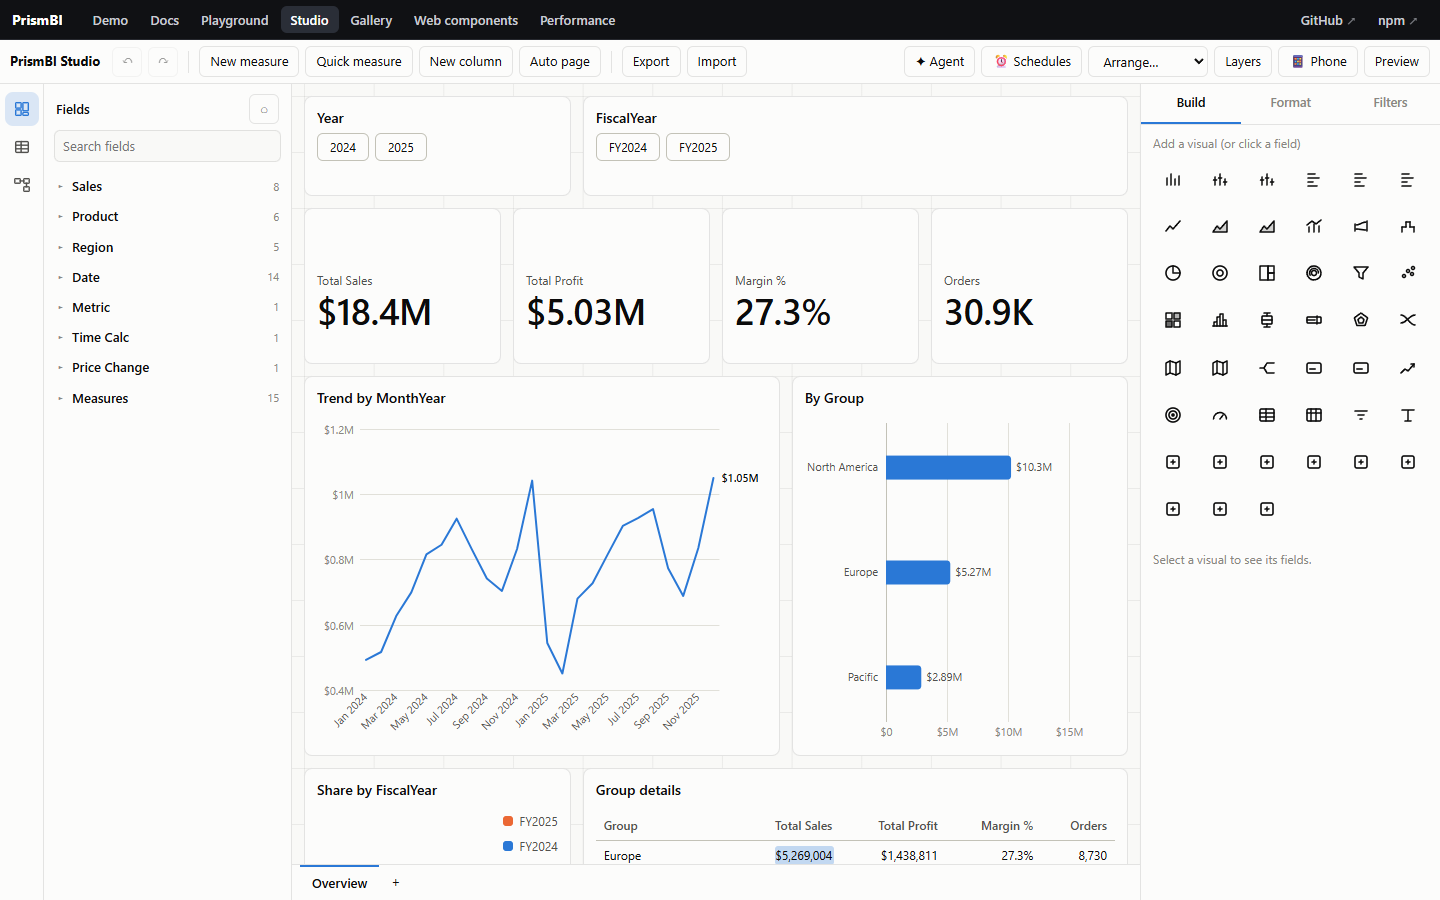
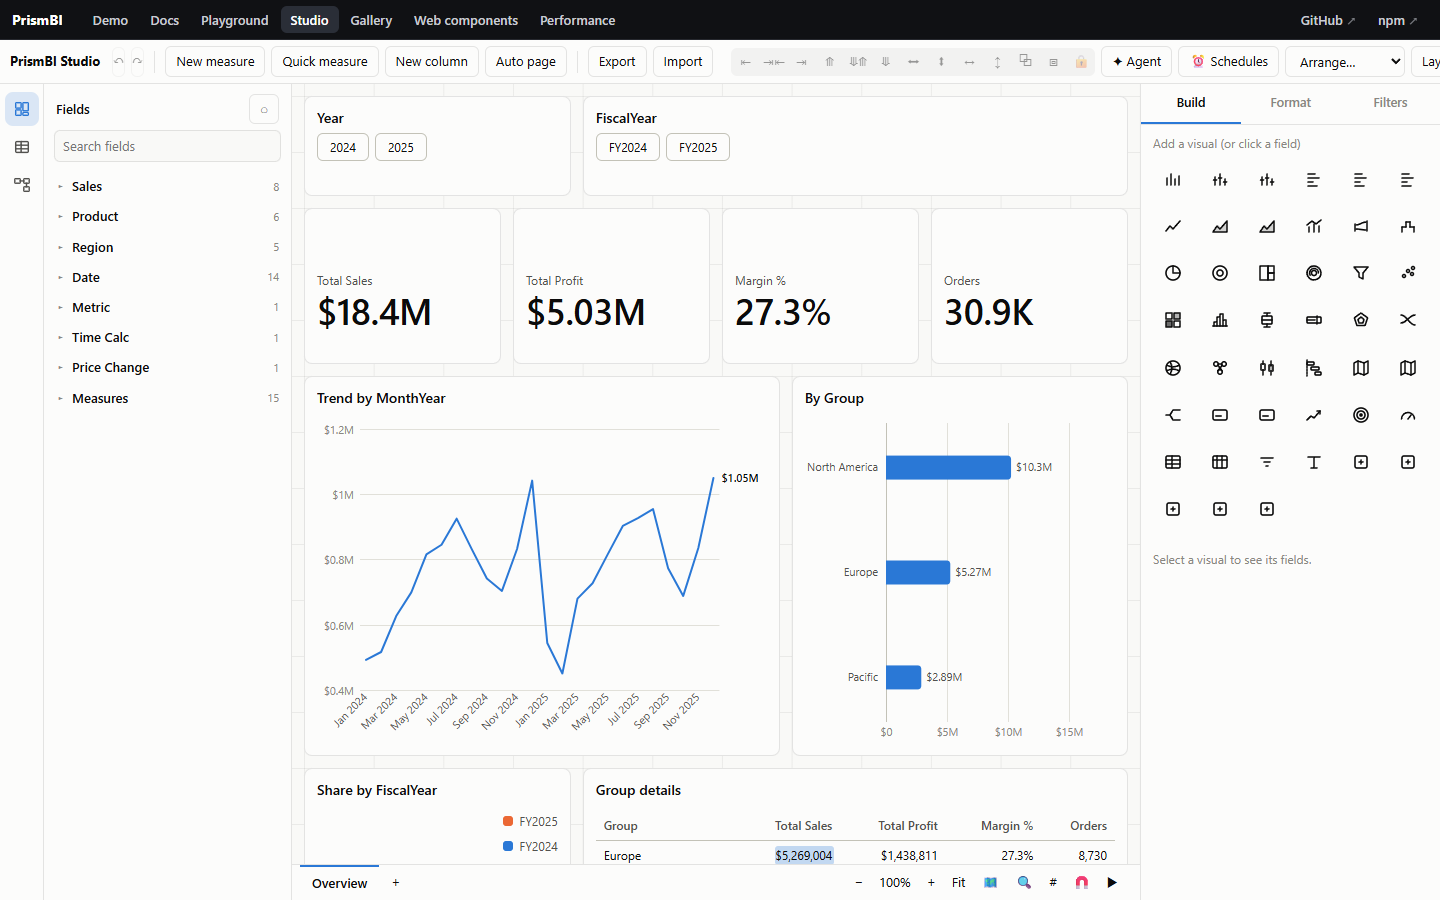
docs: update guide documentation and regenerate documentation screenshots

diff --git a/README.md b/README.md
@@ -56,7 +56,7 @@ Clicking a column filters the card. Clicking a slicer tile filters both, and dou
 | **40 visuals** | Column and bar (clustered, stacked, 100%), line, area, stacked area, combo (dual-axis / secondary Y-scale), ribbon, waterfall, pie, donut, treemap, sunburst, funnel, scatter and bubble, histogram, box plot, bullet, radar, sankey, chord diagram, network graph (force-directed with node dragging), gantt chart, candlestick (OHLC with volume), heatmap, bubble and filled maps (with custom GeoJSON territories), decomposition tree, card, multi-row card, KPI, gauge, goals scorecard, table, matrix (stepped layout and in-cell sparklines), slicer, text, sweep-line collision avoidance for data labels, and small multiples across cartesian, scatter, and bullet charts |
 | **Light and fast** | Zero dependencies. A columnar engine with typed-array views, 64-bit group key encoding, multi-worker parallel execution pool, vectorised aggregations, a single-pass grouped query path, hash indexes and caches. Queries over 1M rows, including YTD per day, take 12–191 ms cold. LTTB-thinned lines, canvas scatter, virtualized tables, and an optional Web Worker engine |
 | **Live data** | `@prismbi/prismbi/connectors`: zero-copy streaming CSV to packed columnar buffers, URL streaming, Google Sheets, JSON, paginated REST, GraphQL, Apache Arrow (Parquet via DuckDB-Wasm), SQL adapters, WebSocket and EventSource streaming into sliding windows, scheduled refresh |
-| **Analytics** | Continuous time and number axes, log scales, automated time-series anomaly detection (detrended IQR and Z-score with visual beacons and explanation badges), reference lines (constant, average, median, min, max, percentile), trend lines, rule- and gradient-based colours, report-page tooltips, real totals |
+| **Analytics** | Continuous time and number axes, log scales, automated time-series anomaly detection (detrended IQR and Z-score with visual beacons and explanation badges), reference lines (constant, average, median, min, max, percentile), reference bands & target ranges, trend lines, rule- and gradient-based colours, data label contrast and threshold rules, report-page tooltips, real totals |
 | **Customizable** | Theme tokens and CSS variables, Power BI theme JSON import, per-visual format panes, theme `visualStyles`, custom tooltips, custom visuals, PNG/SVG/CSV/PDF (crisp resolution-independent vector paths or raster)/PowerPoint (.pptx)/Word (.docx) export, standalone single-file HTML dashboards, copy visual image to clipboard, edit-interactions mode |
 | **Accessible** | Keyboard-reachable marks, ARIA roles, legends whenever there are two or more series, show-as-table on every chart, reduced motion, light and dark palettes validated for colour-vision deficiency |
 

diff --git a/docs/guide/interactions.md b/docs/guide/interactions.md
@@ -49,11 +49,55 @@ report.setSlicerSelection('region', null); // clear
 
 ### Sync slicers across pages
 
-Slicers with the same `syncGroup` share one selection on every page, whatever their style:
+Slicers can synchronize across pages by sharing a `syncGroup`, or by specifying target `syncPages`:
+
+```ts
+// Sync slicer with other pages even without duplicate slicer visuals:
+{
+  type: 'slicer',
+  fields: { field: 'Date[Year]' },
+  format: { slicer: { style: 'tiles', syncPages: ['Details', 'Analysis'] } }
+}
+```
+
+Or programmatically via `Report`:
+```ts
+report.syncSlicers('slicer-id', ['page-2', 'page-3']); // target specific pages or 'all'
+report.getSyncSlicers(); // returns all sync slicers and active selections
+```
+
+Slicers with the same `syncGroup` share one selection across every page where they appear:
 
 ```ts
 { type: 'slicer', fields: { field: 'Date[Year]' }, format: { slicer: { style: 'tiles', syncGroup: 'year' } } }   // page 1
 { type: 'slicer', fields: { field: 'Date[Year]' }, format: { slicer: { style: 'dropdown', syncGroup: 'year' } } } // page 2
+```
+
+## Canvas wallpaper, page background & watermark
+
+Pages support rich background styling and watermarks via `PageDefinition.background` or `report.setPageBackground()`:
+
+```ts
+report.setPageBackground({
+  color: '#f8fafc',
+  image: 'https://example.com/assets/dashboard-bg.png',
+  fit: 'cover', // 'cover' | 'contain' | 'fit' | 'center'
+  opacity: 0.85,
+  watermark: 'CONFIDENTIAL', // or { text: 'DRAFT', color: '#dc2626', opacity: 0.1, angle: -35 }
+});
+
+// Inspect active background
+report.getPageBackground();
+```
+
+## Page management: deletion & bulk reordering
+
+```ts
+// Reorder page tabs in any order:
+report.reorderPages(['summary', 'details', 'kpis']);
+
+// Delete a page by id or name (preserves at least one page):
+report.removePage('obsolete-page'); // returns true if removed
 ```
 
 ## Cross-filtering and cross-highlighting

diff --git a/docs/guide/studio.md b/docs/guide/studio.md
@@ -31,7 +31,7 @@ To show the finished report to viewers, pass `doc.report` to `<PrismReport defin
 
 | Area | Features |
 |---|---|
-| **Canvas** | Select visuals, drag to move, resize from 8 handles. Magnetic smart alignment snap lines guide placement against neighboring visual edges. Multi-visual lasso marquee drag selection. Everything snaps to the page grid, which is visible while editing. Click empty space to deselect |
+| **Canvas** | Select visuals, drag to move, resize from 8 handles. Magnetic smart alignment snap lines guide placement against neighboring visual edges and midpoints. Multi-visual lasso marquee drag selection. Top toolbar quick alignment (left, center, right, top, middle, bottom), spacing distribution (horizontally, vertically), and visual size matching (width, height, both). Visual locking (`Ctrl+L`) and grouping (`Ctrl+G`). Drag-and-drop external CSV and JSON data files directly onto the canvas. Everything snaps to the configurable page grid (`Ctrl+'`). Click empty space to deselect |
 | **Keyboard** | Arrows nudge (Shift+arrows resize) · Delete removes · Ctrl+D duplicates · Ctrl+C / Ctrl+V copy and paste · Ctrl+] / Ctrl+[ front and back · Ctrl+Z / Ctrl+Y undo and redo · Ctrl+S saves · Esc deselects |
 | **Selection & Layers** | Side pane listing visuals front-to-back with visibility toggles (hide/show), lock protection, and z-order reordering |
 | **Quick measures** | Wizard dialog generating parameterized DAX measures for Year-over-Year Growth, Running Total, Rolling 3-Month Average, and Share of Category |
